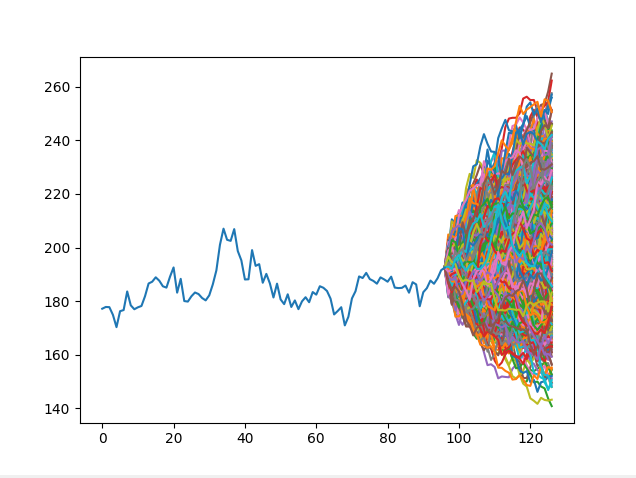
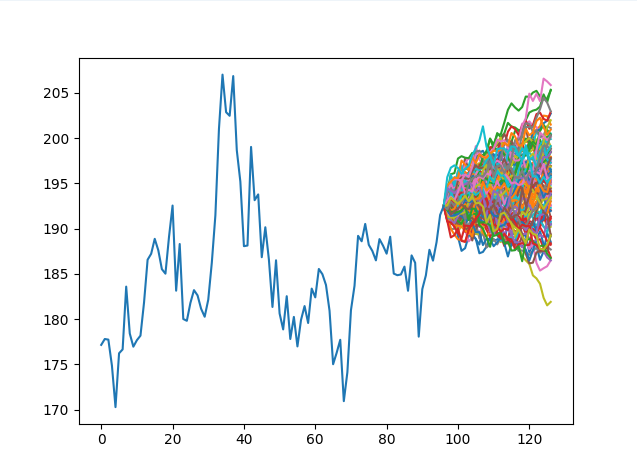
showcase image fix

Changed region(s): [[0.0597, 0.1179, 0.9261, 0.9432]]

diff --git a/app/main.py b/app/main.py
@@ -10,7 +10,7 @@ def main():
     #g.simplepath()
     #g.multiplesimplepath(100)
     
-    sp.predict_for_data('NVDA',30,30,0.025,0.1,1000)
+    sp.predict_for_data('NVDA',30,30,0.015,0.025,100)
     
 
 if __name__ == "__main__": 
